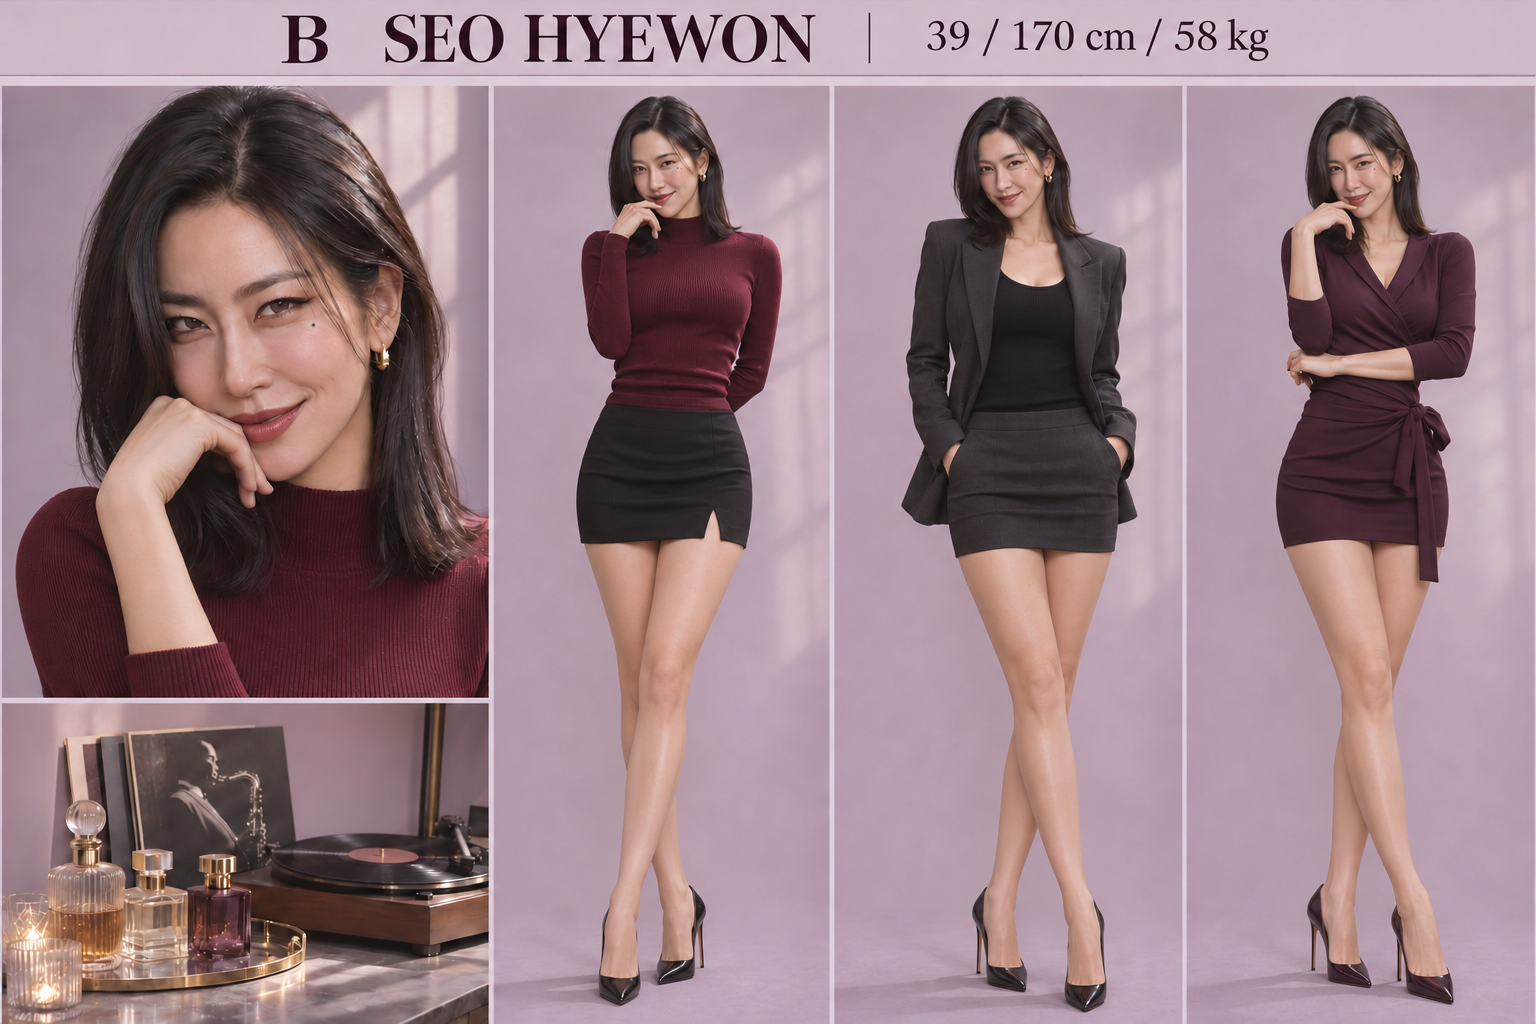
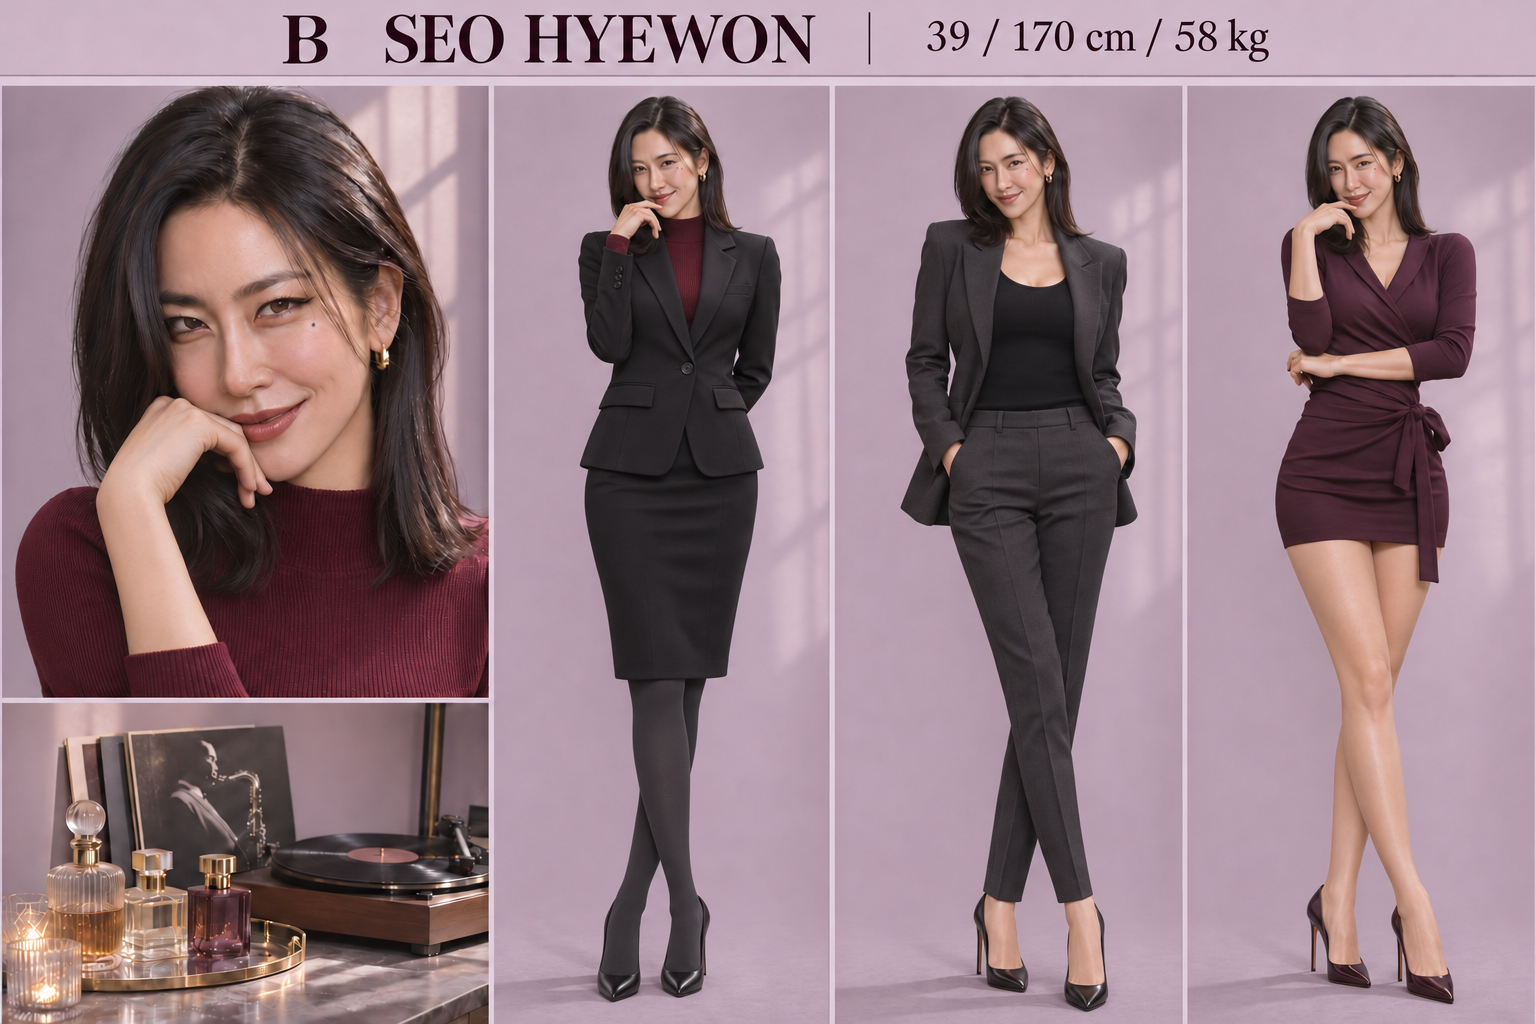
Add host denim, suit and side-slit skirt looks

diff --git a/shorts.py b/shorts.py
@@ -38,8 +38,8 @@ HOSTS = {
         "32 years old, 168 cm, 51 kg, slender athletic build, heart-shaped face, bright warm brown almond eyes, "
         "fresh peach blush and a natural coral lip, "
         "one subtle cheek dimple, long chestnut-brown loose waves with wispy side fringe, "
-        "close-fitting butter-yellow short-sleeve rib knit, high-waisted fitted short black mini skirt "
-        "with a small front slit, and white low-top leather court sneakers",
+        "close-fitting butter-yellow short-sleeve rib knit, high-waisted slim dark indigo jeans, "
+        "and white low-top leather court sneakers",
         "Kore",
         "섹시하지만 귀여운 호스트. 밝은 눈웃음과 장난기. 예시: 오빠, 오늘 이 조합 반칙인데요?",
         "밝고 경쾌한 한국어. 눈웃음이 들리는 듯한 친근한 장난기",
@@ -48,8 +48,8 @@ HOSTS = {
         "서혜원",
         "39 years old, 170 cm, 58 kg, tall long-limbed build, defined oval face, arched brows, sharp dark eyes, "
         "mole under her left eye, glossy straight shoulder-length black hair with off-center part, "
-        "close-fitting burgundy mock-neck knit, high-waisted fitted short black mini skirt "
-        "with a small front slit, and black pointed stiletto pumps",
+        "fitted black suit blazer over a burgundy mock-neck knit, tailored knee-length black pencil skirt, "
+        "matte charcoal tights, and black pointed pumps",
         "Aoede",
         "섹시하고 응큼한 호스트. 여유로운 능청과 은근한 플러팅. 예시: 오빠, 이렇게 입고 오면 저 먼저 약속 잡아요.",
         "낮고 여유로운 한국어. 살짝 뜸을 들인 뒤 미소가 느껴지는 능청스러운 톤",
@@ -58,8 +58,8 @@ HOSTS = {
         "윤서하",
         "43 years old, 166 cm, 54 kg, slender balanced build, soft oval face, gently straight brows, "
         "clear dark eyes, chin-length deep-brown bob tucked behind one ear with a center part, "
-        "close-fitting ivory boat-neck knit, high-waisted fitted short navy mini skirt "
-        "with a small front slit, and cream pointed stiletto pumps",
+        "close-fitting ivory boat-neck knit, fitted navy knee-length pencil skirt with a thigh-high side slit, "
+        "sheer skin-tone tights, and cream pointed stiletto pumps",
         "Leda",
         "섹시하지만 청순한 호스트. 차분하고 다정하게 옷을 골라 줌. 예시: 오빠, 이 색 입으니까 인상이 한결 부드러워요.",
         "부드럽고 또렷한 한국어. 가까운 사람에게 옷을 골라 주는 다정한 말투",

diff --git a/characters/image-prompts.md b/characters/image-prompts.md
@@ -4,12 +4,12 @@
 
 ## A 한유나
 
-Generate ONE landscape 3:2 editorial wardrobe and character design sheet for a fictional adult Korean woman, host A of a Korean men's style short video series. Fashion magazine photo-realistic; all four views of this same woman have exactly the same face, hair and adult body. Character HAN YUNA (한유나), 32 / 168 cm / 51 kg, heart-shaped face, bright warm brown almond eyes, light peach blush and a natural coral lip, one subtle cheek dimple, long chestnut-brown loose waves with wispy side fringe, slender athletic build. Personality conveyed through expression and pose: sexy but cute adult fashion host, bright eye smile and confident playful energy. Wide layout: a clean readable header with exact text "A  HAN YUNA" and "32 / 168 cm / 51 kg". Below header one evenly spaced row: on left a large head-and-shoulders beauty portrait, on right three distinct head-to-toe outfit photos of her all shoes fully in frame. Exact outfits in order: 1 butter-yellow fitted short-sleeve rib knit, high-waisted black fitted mini skirt with a small front slit, white low-top leather court sneakers; 2 dusty rose fitted knit, cream fitted mini skirt, cream and soft rose retro running sneakers; 3 cherry-red fitted square-neck knit, fitted dark denim mini skirt, black pointed stilettos. Under portrait a small restrained still-life suggesting her hobbies: dessert cafe hopping and tennis. Warm natural window light, warm pale apricot seamless backdrop, subtle panel dividers, realistic adult proportions and natural skin texture, no brands or watermarks, keep all outfits opaque and tasteful. No additional text beyond header and stats.
+Generate ONE landscape 3:2 editorial wardrobe and character design sheet for a fictional adult Korean woman, host A of a Korean men's style short video series. Fashion magazine photo-realistic; all four views of this same woman have exactly the same face, hair and adult body. Character HAN YUNA (한유나), 32 / 168 cm / 51 kg, heart-shaped face, bright warm brown almond eyes, light peach blush and a natural coral lip, one subtle cheek dimple, long chestnut-brown loose waves with wispy side fringe, slender athletic build. Personality conveyed through expression and pose: sexy but cute adult fashion host, bright eye smile and confident playful energy. Wide layout: a clean readable header with exact text "A  HAN YUNA" and "32 / 168 cm / 51 kg". Below header one evenly spaced row: on left a large head-and-shoulders beauty portrait, on right three distinct head-to-toe outfit photos of her all shoes fully in frame. Exact outfits in order: 1 butter-yellow fitted short-sleeve rib knit, high-waisted slim dark indigo jeans, white low-top leather court sneakers; 2 dusty rose fitted knit, cream fitted mini skirt, cream and soft rose retro running sneakers; 3 cherry-red fitted square-neck knit, fitted dark denim mini skirt, black pointed stilettos. Under portrait a small restrained still-life suggesting her hobbies: dessert cafe hopping and tennis. Warm natural window light, warm pale apricot seamless backdrop, subtle panel dividers, realistic adult proportions and natural skin texture, no brands or watermarks, keep all outfits opaque and tasteful. No additional text beyond header and stats.
 
 ## B 서혜원
 
-Generate ONE landscape 3:2 editorial wardrobe and character design sheet for a fictional adult Korean woman, host B of a Korean men's style short video series. Fashion magazine photo-realistic; all four views of this same woman have exactly the same face, hair and adult body. Character SEO HYEWON (서혜원), 39 / 170 cm / 58 kg, defined oval face, arched brows, sharp dark cat-like eyes, mole under left eye, glossy straight shoulder-length black hair with off-center part, tall long-limbed build. Personality conveyed through expression and pose: glamorous adult fashion host with a knowing smirk, confident and playfully flirtatious. Wide layout: a clean readable header with exact text "B  SEO HYEWON" and "39 / 170 cm / 58 kg". Below header one evenly spaced row: on left a large head-and-shoulders beauty portrait, on right three distinct head-to-toe outfit photos of her all shoes fully in frame. Exact outfits in order: 1 burgundy fitted mock-neck knit, high-waisted black fitted mini skirt with a small front slit, black pointed stilettos; 2 fitted charcoal blazer and fitted black scoop-neck knit, charcoal fitted mini skirt, black pointed stilettos; 3 fitted plum wrap top, matching fitted mini skirt, plum pointed stilettos. Under portrait a small restrained still-life suggesting her hobbies: collecting perfumes and listening to jazz records. Warm natural window light, dusty pale lilac seamless backdrop, subtle panel dividers, realistic adult proportions and natural skin texture, no brands or watermarks, keep all outfits opaque and tasteful. No additional text beyond header and stats.
+Generate ONE landscape 3:2 editorial wardrobe and character design sheet for a fictional adult Korean woman, host B of a Korean men's style short video series. Fashion magazine photo-realistic; all four views of this same woman have exactly the same face, hair and adult body. Character SEO HYEWON (서혜원), 39 / 170 cm / 58 kg, defined oval face, arched brows, sharp dark cat-like eyes, mole under left eye, glossy straight shoulder-length black hair with off-center part, tall long-limbed build. Personality conveyed through expression and pose: glamorous adult fashion host with a knowing smirk, confident and playfully flirtatious. Wide layout: a clean readable header with exact text "B  SEO HYEWON" and "39 / 170 cm / 58 kg". Below header one evenly spaced row: on left a large head-and-shoulders beauty portrait, on right three distinct head-to-toe outfit photos of her all shoes fully in frame. Exact outfits in order: 1 burgundy fitted mock-neck knit, fitted black blazer and knee-length pencil skirt suit, matte charcoal tights, black pointed pumps; 2 fitted charcoal blazer, fitted black scoop-neck knit, matching tapered suit trousers, black pointed stilettos; 3 fitted plum wrap top, matching fitted mini skirt, plum pointed stilettos. Under portrait a small restrained still-life suggesting her hobbies: collecting perfumes and listening to jazz records. Warm natural window light, dusty pale lilac seamless backdrop, subtle panel dividers, realistic adult proportions and natural skin texture, no brands or watermarks, keep all outfits opaque and tasteful. No additional text beyond header and stats.
 
 ## C 윤서하
 
-Generate ONE landscape 3:2 editorial wardrobe and character design sheet for a fictional adult Korean woman, host C of a Korean men's style short video series. Fashion magazine photo-realistic; all four views of this same woman have exactly the same face, hair and adult body. Character YOON SEOHA (윤서하), 43 / 166 cm / 54 kg, soft oval face, gently straight brows, clear dark eyes, chin-length deep-brown bob tucked behind one ear with a clean middle part, slender balanced build. Personality conveyed through expression and pose: refined and quietly alluring adult fashion host, fresh makeup and a gentle sincere smile. Wide layout: a clean readable header with exact text "C  YOON SEOHA" and "43 / 166 cm / 54 kg". Below header one evenly spaced row: on left a large head-and-shoulders beauty portrait, on right three distinct head-to-toe outfit photos of her all shoes fully in frame. Exact outfits in order: 1 ivory fitted boat-neck knit, high-waisted fitted navy mini skirt with a small front slit, cream pointed stilettos; 2 fitted cream blouse, fitted powder-blue mini skirt, nude pointed stilettos; 3 fitted sage square-neck top and cream cardigan, fitted sage mini skirt, cream pointed stilettos. Under portrait a small restrained still-life suggesting her hobbies: film photography and flower arranging. Warm natural window light, muted pale sage seamless backdrop, subtle panel dividers, realistic adult proportions and natural skin texture, no brands or watermarks, keep all outfits opaque and tasteful. No additional text beyond header and stats.
+Generate ONE landscape 3:2 editorial wardrobe and character design sheet for a fictional adult Korean woman, host C of a Korean men's style short video series. Fashion magazine photo-realistic; all four views of this same woman have exactly the same face, hair and adult body. Character YOON SEOHA (윤서하), 43 / 166 cm / 54 kg, soft oval face, gently straight brows, clear dark eyes, chin-length deep-brown bob tucked behind one ear with a clean middle part, slender balanced build. Personality conveyed through expression and pose: refined and quietly alluring adult fashion host, fresh makeup and a gentle sincere smile. Wide layout: a clean readable header with exact text "C  YOON SEOHA" and "43 / 166 cm / 54 kg". Below header one evenly spaced row: on left a large head-and-shoulders beauty portrait, on right three distinct head-to-toe outfit photos of her all shoes fully in frame. Exact outfits in order: 1 ivory fitted boat-neck knit, navy knee-length pencil skirt with a side slit, sheer skin-tone tights, cream pointed stilettos; 2 fitted cream blouse, fitted powder-blue mini skirt, sheer skin-tone tights, nude pointed stilettos; 3 fitted sage square-neck top and cream cardigan, fitted sage mini skirt, sheer skin-tone tights, cream pointed stilettos. Under portrait a small restrained still-life suggesting her hobbies: film photography and flower arranging. Warm natural window light, muted pale sage seamless backdrop, subtle panel dividers, realistic adult proportions and natural skin texture, no brands or watermarks, keep all outfits opaque and tasteful. No additional text beyond header and stats.

diff --git a/README.md b/README.md
@@ -4,9 +4,9 @@ Windows에서 상품 목록을 읽어 10~20초 세로 쇼츠를 일괄 제작합
 
 | 호스트 | 캐릭터 | 외모 설정 | 취미 | 시그니처 룩 |
 | --- | --- | --- | --- | --- |
-| A 한유나 | 섹시하지만 귀엽고 장난기 있는 진행 | 32세, 168cm, 51kg. 하트형 얼굴, 밝은 눈웃음, 한쪽 보조개, 긴 밤색 웨이브 | 디저트 카페 탐방, 테니스 | 버터 옐로 핏 니트, 블랙 슬릿 미니스커트, 흰색 로우탑 스니커즈 |
-| B 서혜원 | 섹시하고 능청스럽게 플러팅하는 진행 | 39세, 170cm, 58kg. 또렷한 눈매, 왼쪽 눈 아래 점, 어깨 길이의 검은 직모 | 향수 수집, 재즈 LP 감상 | 버건디 핏 모크넥, 블랙 슬릿 미니스커트, 블랙 스틸레토 힐 |
-| C 윤서하 | 섹시하지만 청순하고 다정한 진행 | 43세, 166cm, 54kg. 부드러운 타원형 얼굴, 한쪽 귀 뒤로 넘긴 턱선 단발 | 필름 사진, 꽃꽂이 | 아이보리 핏 보트넥 니트, 네이비 슬릿 미니스커트, 크림 스틸레토 힐 |
+| A 한유나 | 섹시하지만 귀엽고 장난기 있는 진행 | 32세, 168cm, 51kg. 하트형 얼굴, 밝은 눈웃음, 한쪽 보조개, 긴 밤색 웨이브 | 디저트 카페 탐방, 테니스 | 버터 옐로 핏 니트, 슬림 인디고 청바지, 흰색 로우탑 스니커즈 |
+| B 서혜원 | 섹시하고 능청스럽게 플러팅하는 진행 | 39세, 170cm, 58kg. 또렷한 눈매, 왼쪽 눈 아래 점, 어깨 길이의 검은 직모 | 향수 수집, 재즈 LP 감상 | 버건디 모크넥, 블랙 스커트 정장, 차콜 스타킹, 블랙 스틸레토 힐 |
+| C 윤서하 | 섹시하지만 청순하고 다정한 진행 | 43세, 166cm, 54kg. 부드러운 타원형 얼굴, 한쪽 귀 뒤로 넘긴 턱선 단발 | 필름 사진, 꽃꽂이 | 아이보리 보트넥 니트, 옆트임 네이비 무릎 길이 스커트, 살색 스타킹, 크림 스틸레토 힐 |
 
 호스트는 남성을 ‘오빠’라고 부릅니다. 직접 입력한 대본에 ‘아저씨’가 있으면 영상 자막과 음성 생성 전에 ‘오빠’로 바꿉니다. 기존 `hosts/A.png`·`B.png`·`C.png` 파일이 있으면 `hosts all`은 해당 파일을 재사용합니다.
 
